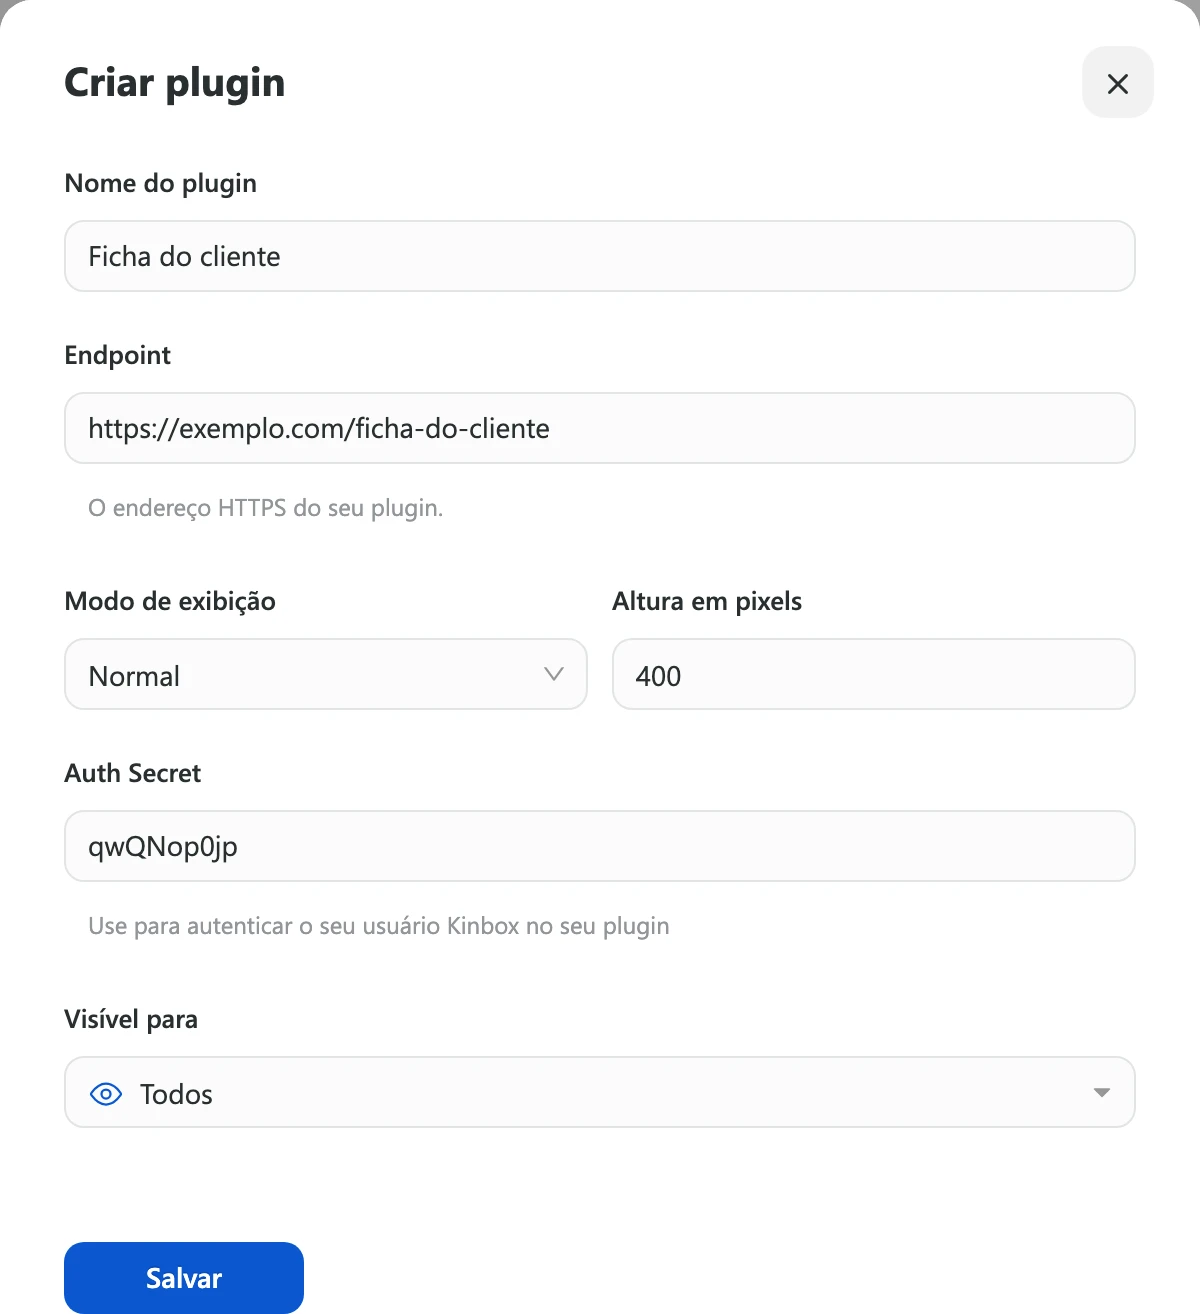
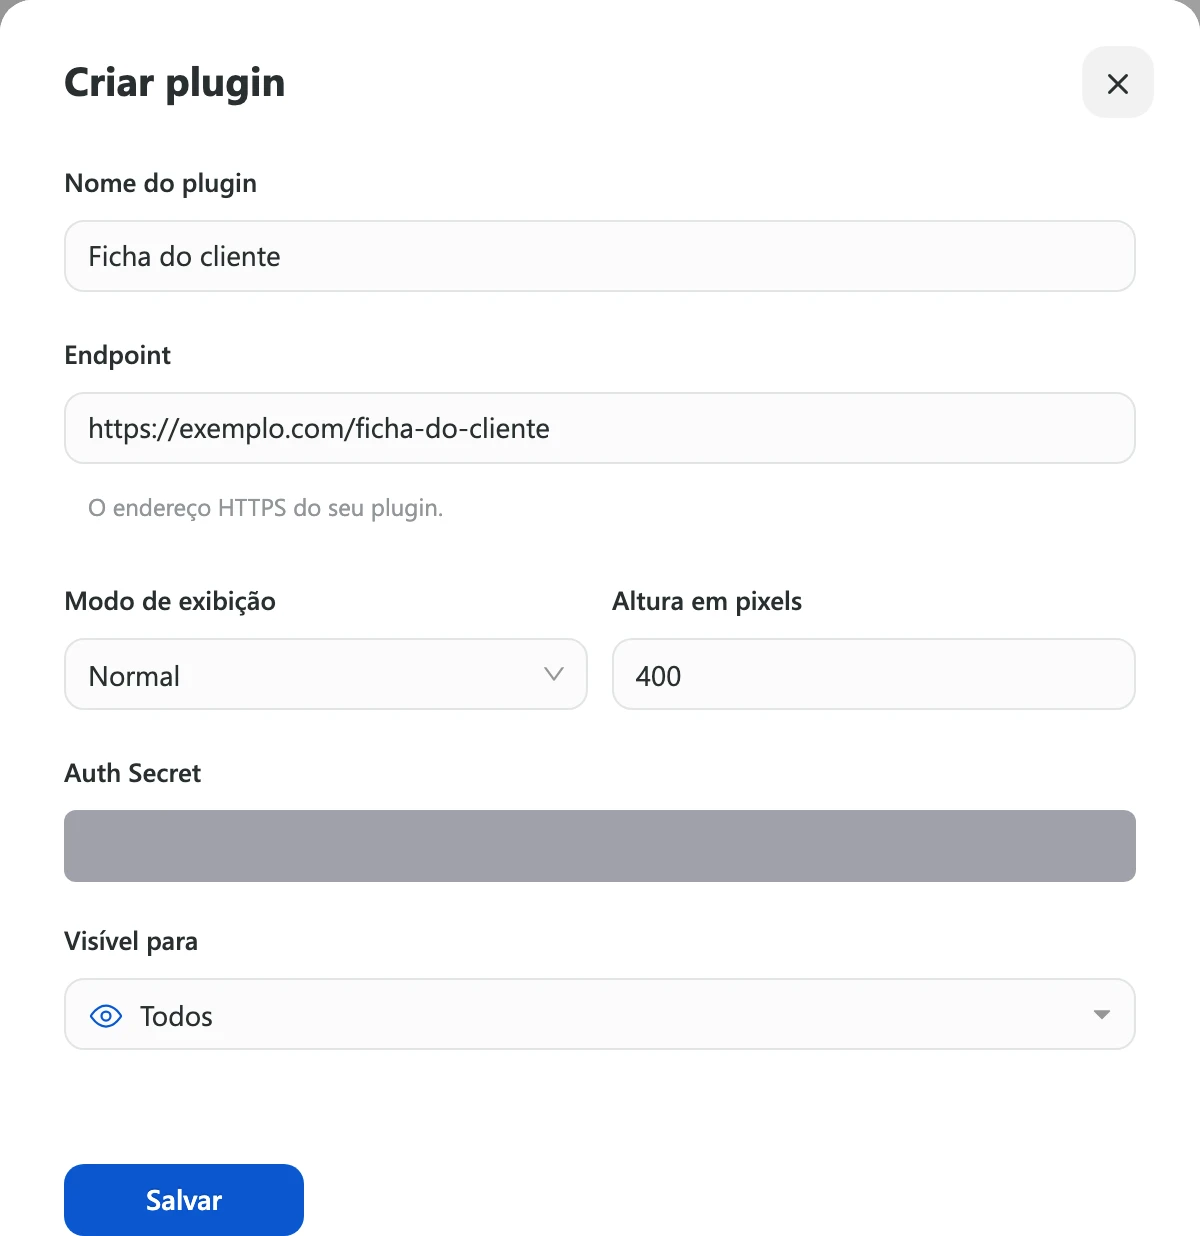
fix(desenvolvedor): tarja no Auth Secret do print e texto do campo sem detalhes de envio
O print do painel Criar plugin mostrava o valor gerado do Auth Secret (o
formulário não foi salvo; nenhum plugin existe no workspace de
documentação). A captura agora cobre o valor com tarja e esconde a ajuda do
campo. A página e a irmã dizem só que o campo é preenchido pela Kinbox e não
deve ser usado para autenticação.

Origem: web:src/pages/settings/plugins/EditPlugin.tsx, web:src/components-old/chat/side/SidePlugin/index.tsx

diff --git a/llm/desenvolvedor/criando-plugin-integracao.md b/llm/desenvolvedor/criando-plugin-integracao.md
@@ -1,7 +1,7 @@
 ---
-title: "Plugins: modos de exibição, placeholders no endpoint e Auth Secret"
+title: "Plugins: modos de exibição, placeholders no endpoint e biblioteca kinboxjs"
 description: Referência dos plugins da Kinbox — campos e limites do cadastro, comportamento de cada modo, troca de campos no endereço, parâmetros e dados que o plugin recebe e funções da biblioteca kinboxjs.
-keywords: [plugin não aparece, plugin em branco, modo tela inteira, placeholder no endpoint, auth_secret, dark_mode, operator_id, kinbox.on conversation, setProperty, sendForm, getWorkspaceInfo, assignTo, moveToGroup, addTag, callback]
+keywords: [plugin não aparece, plugin em branco, modo tela inteira, placeholder no endpoint, dark_mode, operator_id, kinbox.on conversation, setProperty, sendForm, getWorkspaceInfo, assignTo, moveToGroup, addTag, callback]
 publico: llm
 tipo: referencia
 fontes:
@@ -29,7 +29,7 @@ Referência técnica dos plugins da Kinbox, complementando [Criar um plugin para
   - **Modo de exibição:** padrão **Normal**.
   - **Altura em pixels:** exibido em **Normal** e **Modal**, de `200` a `800` (padrão `400`).
   - **Largura em pixels:** exibido em **Painel lateral** e **Página lateral**, de `200` a `1600` (padrão `400`).
-  - **Auth Secret:** gerado automaticamente, somente leitura; enviado no endereço para identificar o plugin (não é senha).
+  - **Auth Secret:** preenchido pela Kinbox, sem edição. Não deve ser usado para autenticação.
   - **Visível para:** **Todos** (padrão), **Grupos** (abre o campo **Grupos**) ou **Apenas para mim**.
 
 ## Modos de exibição
@@ -52,7 +52,7 @@ Referência técnica dos plugins da Kinbox, complementando [Criar um plugin para
 
 ## Parâmetros no endereço e verificação de origem
 
-- **Query string acrescentada pela Kinbox:** `auth_secret` (valor de **Auth Secret**), `dark_mode` (`true` ou `false`), `app_plugin_type` (`inbox`), `operator_id` (ID do membro logado) e, no modo **Tela inteira**, `display_mode=fullscreen`.
+- **Query string acrescentada pela Kinbox:** `dark_mode` (`true` ou `false`), `app_plugin_type` (`inbox`), `operator_id` (ID do membro logado) e, no modo **Tela inteira**, `display_mode=fullscreen`.
 - **Mesma origem:** a Kinbox só aceita mensagens vindas da mesma origem do **Endpoint** cadastrado; mensagens de outra origem são ignoradas. Se o plugin redirecionar para outro domínio, as funções da biblioteca param de responder.
 
 ## Biblioteca `kinboxjs.js`
